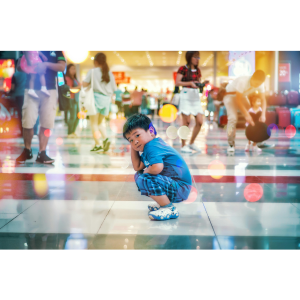
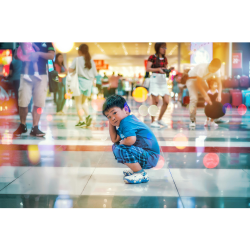
Upload resized version of hero image thumbnail (250px x 250px)

diff --git a/README.md b/README.md
@@ -261,6 +261,8 @@ As a developer:
 *Photo Library - Pexels* 
 <br>
 *Original Photo Link - [Click Here](https://www.pexels.com/photo/boy-squating-on-white-floor-tile-891289/)*
+<br>
+![ThumbnailHeroImage](./assets/images/thumbnails/thumbnail-hero-image.png)
 
 ### **Media Credits**
 - Media credits here...
